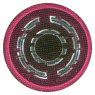
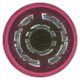
mirage position

diff --git a/src/main/java/ti4/generator/GenerateMap.java b/src/main/java/ti4/generator/GenerateMap.java
@@ -150,9 +150,10 @@ public class GenerateMap {
             LoggerHandler.log("Error drawing tile: " + tile.getTileID(), e);
         }
     }
+
     private BufferedImage resizeImage(BufferedImage originalImage, float percent) throws IOException {
-        int scaledWidth = (int)(originalImage.getWidth() * percent);
-        int scaledHeight = (int)(originalImage.getHeight() * percent);
+        int scaledWidth = (int) (originalImage.getWidth() * percent);
+        int scaledHeight = (int) (originalImage.getHeight() * percent);
         Image resultingImage = originalImage.getScaledInstance(scaledWidth, scaledHeight, Image.SCALE_DEFAULT);
         BufferedImage outputImage = new BufferedImage(scaledWidth, scaledHeight, BufferedImage.TYPE_INT_ARGB);
         outputImage.getGraphics().drawImage(resultingImage, 0, 0, null);
@@ -176,8 +177,8 @@ public class GenerateMap {
             }
             Point centerPosition = unitHolder.getHolderCenterPosition();
             graphics.drawImage(image, tileX + 10 + deltaX, tileY + centerPosition.y - 40 + deltaY, null);
-            deltaX += image.getWidth()/5;
-            deltaY += image.getHeight()/4;
+            deltaX += image.getWidth() / 5;
+            deltaY += image.getHeight() / 4;
         }
         return image;
     }
@@ -210,6 +211,8 @@ public class GenerateMap {
         int deltaY = 0;
         int deltaYFirst = 0;
         boolean first = tokenList.size() > 1;
+        boolean useOffset = Mapper.getSpecialCaseValues(Constants.POSITION).contains(tile.getTileID());
+        int offSet = 0;
         for (String tokenID : tokenList) {
             String tokenPath = tile.getTokenPath(tokenID);
             if (tokenPath == null) {
@@ -218,16 +221,29 @@ public class GenerateMap {
             }
             try {
                 image = resizeImage(ImageIO.read(new File(tokenPath)), 0.85f);
-                if (first){
+                if (first) {
                     first = false;
                     deltaYFirst = image.getHeight();
+                }
+                if (useOffset) {
+                    if (offSet == 0) {
+                        offSet = -image.getHeight() / 2 - 25;
+                    } else if (offSet < 0) {
+                        offSet = image.getHeight() + 25;
+                    }
                 }
             } catch (Exception e) {
                 LoggerHandler.log("Could not parse control token file for: " + tokenID, e);
             }
             Point centerPosition = unitHolder.getHolderCenterPosition();
-            graphics.drawImage(image, tileX + centerPosition.x - (image.getWidth() / 2), tileY + centerPosition.y - deltaYFirst + deltaY - (image.getHeight() / 2), null);
-            deltaY += image.getHeight();
+            if (tokenPath.contains(Constants.MIRAGE)) {
+                graphics.drawImage(image, tileX + Constants.MIRAGE_POSITION.x, tileY + Constants.MIRAGE_POSITION.y, null);
+            } else {
+                graphics.drawImage(image, tileX + centerPosition.x - (image.getWidth() / 2), tileY + centerPosition.y - deltaYFirst + offSet + deltaY - (image.getHeight() / 2), null);
+            }
+            if (!useOffset) {
+                deltaY += image.getHeight();
+            }
         }
         return image;
     }
@@ -289,8 +305,8 @@ public class GenerateMap {
                 if (bulkUnitCount != null) {
                     graphics.setFont(Storage.getFont26());
                     graphics.setColor(groupUnitColor);
-                    int scaledNumberPositionX = (int)(numberPositionPoint.x * scaleOfUnit);
-                    int scaledNumberPositionY = (int)(numberPositionPoint.y  * scaleOfUnit);
+                    int scaledNumberPositionX = (int) (numberPositionPoint.x * scaleOfUnit);
+                    int scaledNumberPositionY = (int) (numberPositionPoint.y * scaleOfUnit);
                     graphics.drawString(Integer.toString(bulkUnitCount), imageX + scaledNumberPositionX, imageY + scaledNumberPositionY);
                 }
 

diff --git a/src/main/java/ti4/helpers/Constants.java b/src/main/java/ti4/helpers/Constants.java
@@ -63,5 +63,7 @@ public class Constants {
     public static final int SPACE_RADIUS = 115;
     public static final int RADIUS = 45;
     public static final Point SPACE_CENTER_POSITION = new Point(172,150);
+    public static final Point MIRAGE_POSITION = new Point(55,5);
+    public static final String MIRAGE = "mirage";
     public static final String PLANET = "planet";
 }
